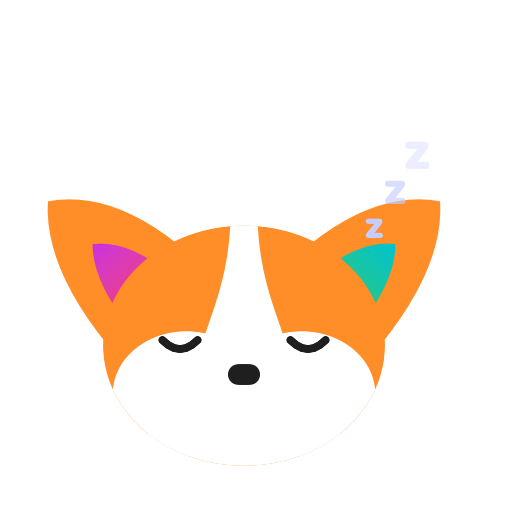
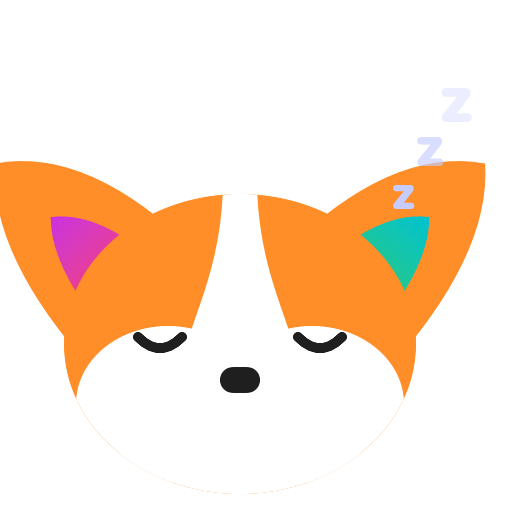
1.1.1: Kura dreams of cows, and sleeps at his full size
A corgi herds cattle. The dream is now his only sleepy line (the drawing
already shows the Zs), and the sleeping picture is no longer shrunk.

diff --git a/hooks/frames-pal.ts b/hooks/frames-pal.ts
@@ -1,12 +1,12 @@
 // Generato da KuraPal/Tools/kura-terminale-pal.swift: non modificare a mano.
 export const PAL_FRAMES: Record<'sleeping' | 'happy', readonly string[]> = {
   sleeping: [
[12 lines of base64/hex data omitted]
   ],
   happy: [
[1 lines of base64/hex data omitted]

diff --git a/hooks/words.ts b/hooks/words.ts
@@ -39,7 +39,7 @@ export const WORDS: Record<Lang, Words> = {
     use: tool => `Using ${tool}`,
     oops: "Ouch, that didn't work. Trying again.",
     finished: ['Done! Anything else?', 'Here you go.', 'Mission accomplished.', 'All yours.'],
-    sleepy: ['zzz…', 'Resting my eyes. Call me.', 'Dreaming of chickens… zzz'],
+    sleepy: ['Dreaming of cows… zzz'],
     command: 'Show or hide Kura above the prompt',
     hidden: 'Kura went to sleep in his den.',
     shown: 'Kura is back!',
@@ -59,7 +59,7 @@ export const WORDS: Record<Lang, Words> = {
     use: tool => `Uso ${tool}`,
     oops: 'Ahia, non è andata. Riprovo.',
     finished: ['Fatto! Serve altro?', 'Ecco qua.', 'Missione compiuta.', 'Tutto tuo.'],
-    sleepy: ['zzz…', 'Mi riposo gli occhi. Chiamami.', 'Sogno galline… zzz'],
+    sleepy: ['Sogno mucche… zzz'],
     command: 'Mostra o nasconde Kura sopra il prompt',
     hidden: 'Kura va a dormire nella tana.',
     shown: 'Kura è tornato!',
@@ -79,7 +79,7 @@ export const WORDS: Record<Lang, Words> = {
     use: tool => `J'utilise ${tool}`,
     oops: "Aïe, ça n'a pas marché. Je réessaie.",
     finished: ["C'est fait ! Autre chose ?", 'Et voilà.', 'Mission accomplie.', 'À toi.'],
-    sleepy: ['zzz…', "Je repose mes yeux. Appelle-moi.", 'Je rêve de poules… zzz'],
+    sleepy: ['Je rêve de vaches… zzz'],
     command: 'Affiche ou masque Kura au-dessus du prompt',
     hidden: 'Kura part dormir dans son terrier.',
     shown: 'Kura est de retour !',
@@ -99,7 +99,7 @@ export const WORDS: Record<Lang, Words> = {
     use: tool => `Uso ${tool}`,
     oops: 'Ay, no ha salido. Lo intento otra vez.',
     finished: ['¡Hecho! ¿Algo más?', 'Aquí tienes.', 'Misión cumplida.', 'Todo tuyo.'],
-    sleepy: ['zzz…', 'Descanso los ojos. Llámame.', 'Sueño con gallinas… zzz'],
+    sleepy: ['Sueño con vacas… zzz'],
     command: 'Muestra u oculta a Kura sobre el prompt',
     hidden: 'Kura se va a dormir a su madriguera.',
     shown: '¡Kura ha vuelto!',
@@ -119,7 +119,7 @@ export const WORDS: Record<Lang, Words> = {
     use: tool => `Usando ${tool}`,
     oops: 'Ai, não deu certo. Tentando de novo.',
     finished: ['Pronto! Mais alguma coisa?', 'Aqui está.', 'Missão cumprida.', 'É todo seu.'],
-    sleepy: ['zzz…', 'Descansando os olhos. Me chama.', 'Sonhando com galinhas… zzz'],
+    sleepy: ['Sonhando com vacas… zzz'],
     command: 'Mostra ou esconde o Kura acima do prompt',
     hidden: 'O Kura foi dormir na toca.',
     shown: 'O Kura voltou!',
@@ -139,7 +139,7 @@ export const WORDS: Record<Lang, Words> = {
     use: tool => `Ich benutze ${tool}`,
     oops: 'Autsch, das hat nicht geklappt. Nochmal.',
     finished: ['Fertig! Noch etwas?', 'Bitte schön.', 'Mission erfüllt.', 'Gehört dir.'],
-    sleepy: ['zzz…', 'Ich ruhe meine Augen aus. Ruf mich.', 'Ich träume von Hühnern… zzz'],
+    sleepy: ['Ich träume von Kühen… zzz'],
     command: 'Zeigt oder versteckt Kura über dem Prompt',
     hidden: 'Kura schläft jetzt in seinem Bau.',
     shown: 'Kura ist zurück!',
